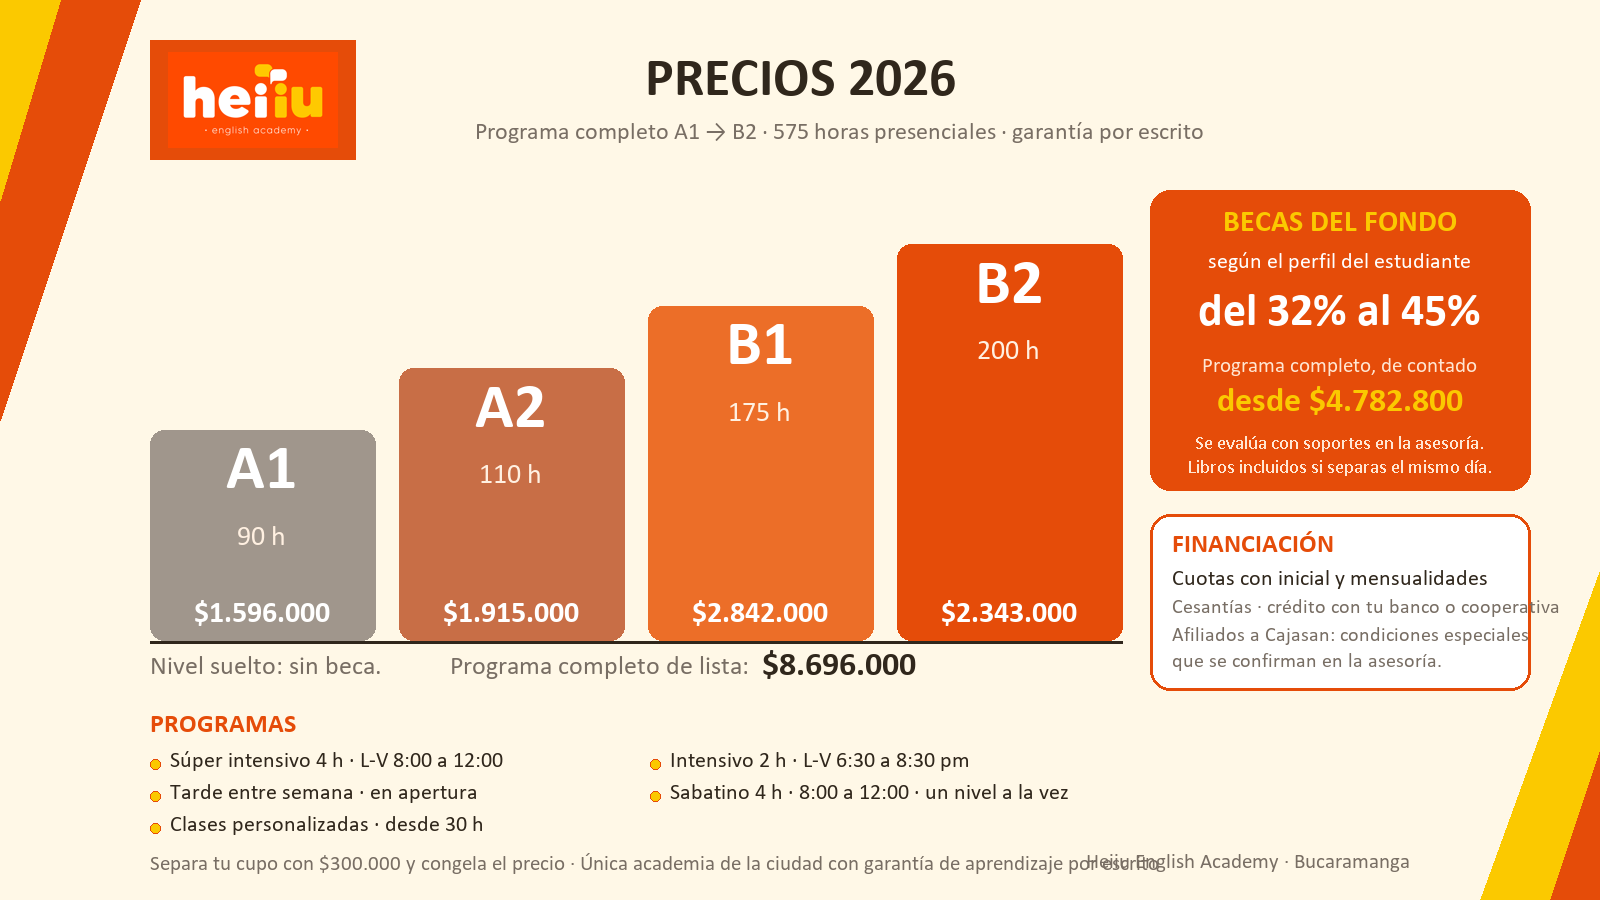
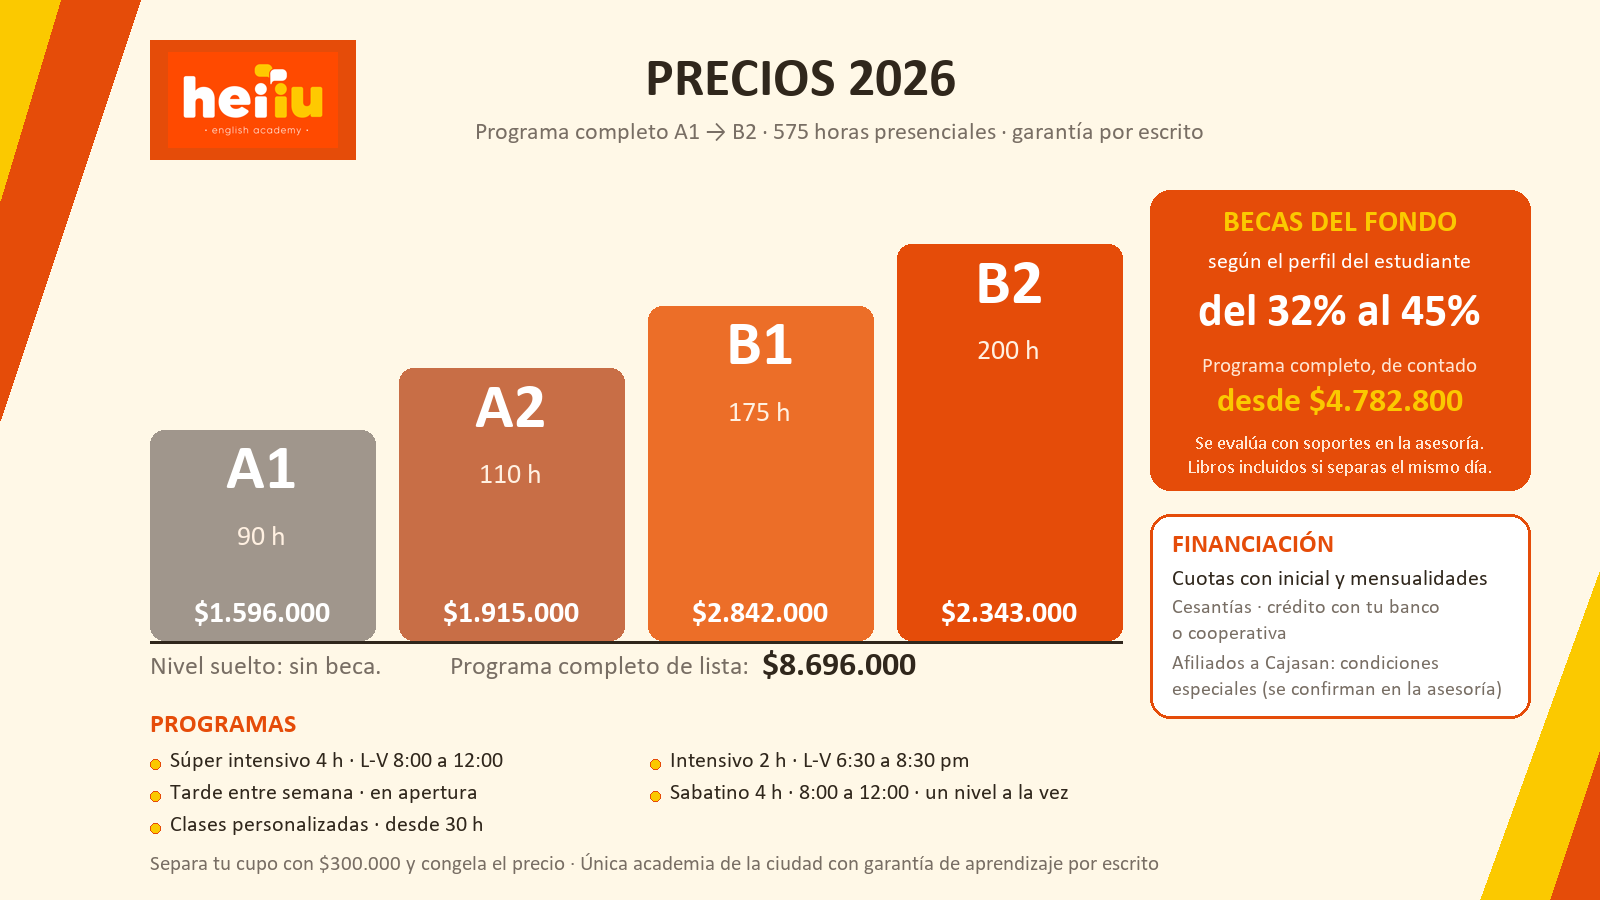
Pieza precios: tarjeta financiacion ajustada

Changed region(s): [[0.7188, 0.6533, 0.9688, 0.8089], [0.6875, 0.9333, 0.875, 0.9644]]

diff --git a/generadores/comercial/gen_pieza_precios_2026.py b/generadores/comercial/gen_pieza_precios_2026.py
@@ -61,13 +61,14 @@ d.text((cx + cw // 2, cy + 246), 'Se evalúa con soportes en la asesoría.', fon
 d.text((cx + cw // 2, cy + 270), 'Libros incluidos si separas el mismo día.', font=font('calibri.ttf', 19), fill=(255, 230, 210), anchor='mt')
 
 # tarjeta Cajasan / financiación
-cy2 = cy + ch + 24; ch2 = 176
+cy2 = cy + ch + 24; ch2 = 204
 d.rounded_rectangle([cx, cy2, cx + cw, cy2 + ch2], radius=20, fill=BLANCO, outline=NAR, width=3)
 d.text((cx + 22, cy2 + 18), 'FINANCIACIÓN', font=font('calibrib.ttf', 26), fill=NAR)
 d.text((cx + 22, cy2 + 54), 'Cuotas con inicial y mensualidades', font=font('calibri.ttf', 22), fill=CAFE)
-d.text((cx + 22, cy2 + 84), 'Cesantías · crédito con tu banco o cooperativa', font=font('calibri.ttf', 20), fill=GRIS)
-d.text((cx + 22, cy2 + 112), 'Afiliados a Cajasan: condiciones especiales', font=font('calibri.ttf', 20), fill=GRIS)
-d.text((cx + 22, cy2 + 138), 'que se confirman en la asesoría.', font=font('calibri.ttf', 20), fill=GRIS)
+d.text((cx + 22, cy2 + 84), 'Cesantías · crédito con tu banco', font=font('calibri.ttf', 20), fill=GRIS)
+d.text((cx + 22, cy2 + 110), 'o cooperativa', font=font('calibri.ttf', 20), fill=GRIS)
+d.text((cx + 22, cy2 + 140), 'Afiliados a Cajasan: condiciones', font=font('calibri.ttf', 20), fill=GRIS)
+d.text((cx + 22, cy2 + 166), 'especiales (se confirman en la asesoría)', font=font('calibri.ttf', 20), fill=GRIS)
 
 # programas (abajo izquierda)
 py = 712
@@ -80,7 +81,6 @@ for i, t in enumerate(progs):
 
 # pie
 d.text((x0, H - 46), 'Separa tu cupo con $300.000 y congela el precio · Única academia de la ciudad con garantía de aprendizaje por escrito', font=font('calibri.ttf', 21), fill=GRIS)
-d.text((W - 190, H - 46), 'Heiiu English Academy · Bucaramanga', font=font('calibri.ttf', 21), fill=GRIS, anchor='rt')
 
 out = os.path.join(BASE, r'recursos\comercial\INDUCCION_COMERCIAL\PRECIOS_2026_HEIIU.png')
 try: img.save(out, optimize=True); print('OK', out)
